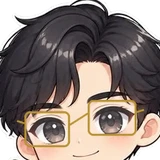
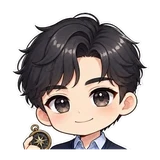
캐릭터 소품 삭제(원래 그림으로), 선택지 창 납작하게
Claude-Session: https://claude.ai/code/session_013o6MwTRjv9wdDZ1RWn6mmU

diff --git a/index.html b/index.html
@@ -99,9 +99,9 @@ body.running .dialog{bottom:calc(18px + var(--sb));max-height:46%}
 .chip{font-size:11.5px;padding:1px 8px;border-radius:99px;border:1px solid var(--line);background:#fff;font-variant-numeric:tabular-nums;animation:pop .35s ease both}
 .chip.up{color:var(--good);border-color:#bfe5d2}.chip.down{color:var(--bad);border-color:#f6c6c8}
 @keyframes pop{from{transform:translateY(4px);opacity:.2}to{transform:none;opacity:1}}
-.choices{display:grid;gap:6px;margin-top:8px}
-.choice{border:2px solid var(--pink);background:#fff;border-radius:14px;padding:8px 12px;text-align:left;font-family:var(--display);font-size:15px;line-height:1.35}
-.choice small{display:block;font-family:var(--body);font-size:12px;color:var(--mute)}
+.choices{display:grid;gap:5px;margin-top:6px}
+.choice{border:2px solid var(--pink);background:#fff;border-radius:12px;padding:5px 10px;text-align:left;font-family:var(--display);font-size:14.5px;line-height:1.3}
+.choice small{display:inline;margin-left:6px;font-family:var(--body);font-size:11.5px;color:var(--mute)}
 .choice:hover:not(:disabled){background:var(--pink-s)}
 .choice:disabled{opacity:.45;cursor:not-allowed}
 .next{grid-column:1/-1;display:flex;justify-content:flex-end;position:sticky;bottom:0}
@@ -452,7 +452,7 @@ body.running .actor{bottom:calc(18px + var(--sb) + 60px)}
 .of-row{position:absolute;left:6px;font-size:10px;letter-spacing:.06em;color:#a3876f;background:rgba(255,248,238,.85);padding:1px 6px;border-radius:6px;pointer-events:none}
 .of-door{position:absolute;right:4%;bottom:0;width:18%;height:3%;background:#c79b6c;border-radius:6px 6px 0 0;font-size:10px;color:#fff;text-align:center;line-height:1.6;pointer-events:none}
 .seat{position:absolute;transform:translate(-50%,-100%);width:21%;max-width:96px;display:grid;justify-items:center;border:0;background:none;padding:0;cursor:pointer;font:inherit;color:var(--ink)}
-.seat .who{width:70%;aspect-ratio:1/1.05;background-repeat:no-repeat;position:relative;z-index:1;transition:transform .2s;overflow:visible;clip-path:inset(-45% -10% 0 -10%)}
+.seat .who{width:70%;aspect-ratio:1/1.05;background-repeat:no-repeat;position:relative;z-index:1;transition:transform .2s;overflow:hidden}
 .seat .who img{position:absolute;max-width:none;height:auto;pointer-events:none}
 .seat .desk{width:100%;height:20px;margin-top:-9px;position:relative;z-index:2;border-radius:6px;background:linear-gradient(180deg,#b98458,#9c6a43);box-shadow:0 3px 0 #7d5233}
 .seat .desk::after{content:"";position:absolute;left:58%;top:-12px;width:22%;height:12px;background:#3d4b5c;border-radius:2px 2px 0 0}
@@ -2568,7 +2568,7 @@ document.addEventListener('click',e=>{const b=e.target.closest('[data-mset]');if
    말주머니로 질문 → 답을 고르면 업무 성과 평가(정답일수록 매출·해외 진출·♥ 상승). 한 달에 3번. */
 const SEAT={sangho:[30,26],hyunsu:[70,26],hanmin:[18,48],seohwi:[50,48],jiyoung:[82,48],daram:[13,70],eunbin:[37,70],sumin:[63,70],jaemin:[87,70]};
 // 캐릭터마다 원본 그림 크기가 달라서, 얼굴 폭이 같아 보이도록 자르는 값 [너비%, 왼쪽%, 위%]
-const CROP={"seohwi": [77.4, 14.6, -5.7], "eunbin": [79.8, 11.1, -4.4], "sumin": [69.4, 19.0, -7.4], "jiyoung": [67.9, 18.2, -5.4], "hyunsu": [75.0, 13.5, -6.2], "sangho": [62.0, 19.0, -4.8], "jaemin": [66.3, 19.0, -5.4], "hanmin": [75.1, 14.6, -6.3], "daram": [64.5, 18.2, -4.8], "daram_f": [63.9, 18.0, -4.4]};
+const CROP={"seohwi": [77.4, 14.6, 4.8], "eunbin": [79.8, 11.1, 4.8], "sumin": [69.4, 19.0, 4.8], "jiyoung": [67.9, 18.2, 4.8], "hyunsu": [75.0, 13.5, 4.8], "sangho": [62.0, 19.0, 4.8], "jaemin": [66.3, 19.0, 4.8], "hanmin": [75.1, 14.6, 4.8], "daram": [64.5, 18.2, 4.8], "daram_f": [63.9, 18.0, 4.8]};
 const SEAT_ROW=[[11.5,'부장실'],[81,'인턴석 · 문 바로 옆']];
 const MY_SEAT=[60,96];
 // 사무실에선 이름 대신 직무로 표기

diff --git a/README.md b/README.md
@@ -17,7 +17,7 @@
   - 도우미 9명: SCM 벨트 속도 −15% · 경영지원 불량 3개 회수 · BM 라벨 자동 · 마케팅 PERFECT 판정 넓게 · PR 콤보 화제성 ×2 · 이커머스 주문마다 +2개 · 영업 매출 +15% · 사업부장 평판 +2·매출 +5% · 기획부장 병에 크림/젤 힌트
   - 업무 보드·경영기획 회의·험쮜 스케줄은 없앰. 승진은 평판·론칭·매출·해외·브랜드·♥로
   - 자동 플레이 30판 기준: 정확도 90% → 대부분 CEO, 72% → 팀장·이사, 50% → 사원·주임
-- **캐릭터 구별**: 이름 앞에 담당 업무 표기(대화창 「PR · 박서휘 대리」, 사무실 명패 「PR · 서휘」, 도우미 카드·관계도 업무 배지). 그림마다 특징 소품: 사업부장 금테 안경 · 기획부장 빨간 뿔테 · 마케팅 동그란 검정 안경 · SCM 노란 안전모 · BM 보라 베레모 · PR 핑크 리본 · 영업 파란 CL 캡 · 이커머스 헤드셋 · 경영지원 초록 회계 바이저
+- **캐릭터 구별**: 이름 앞에 담당 업무 표기(대화창 「PR · 박서휘 대리」, 사무실 명패 「PR · 서휘」, 도우미 카드·관계도 업무 배지)
 - **사무실 화면**(라인에서 ☕ 버튼, 대화·간식 전용): 세로 한 화면 사무실. 남색 헤더, 카펫 타일 바닥, 창문과 로고 벽, 유리 파티션 부장실, 흰 책상·모니터. 창가(위)일수록 높은 자리, 자리에는 직무 표기
   - 동료를 터치하면 험쮜가 걸어가 말주머니로 질문, 답을 고르면 A/B/C 평가(정답이면 론칭 체크·매출·해외 진척·♥↑, 영업 주임은 설렘도). 한 달 3번, 질문 60개는 한 번씩만
   - 🔥 열받은 동료(한 달 0~1명): 맞는 간식을 사다 주면 열이 식고 ♥↑. 못 식히면 월말 ♥-2
